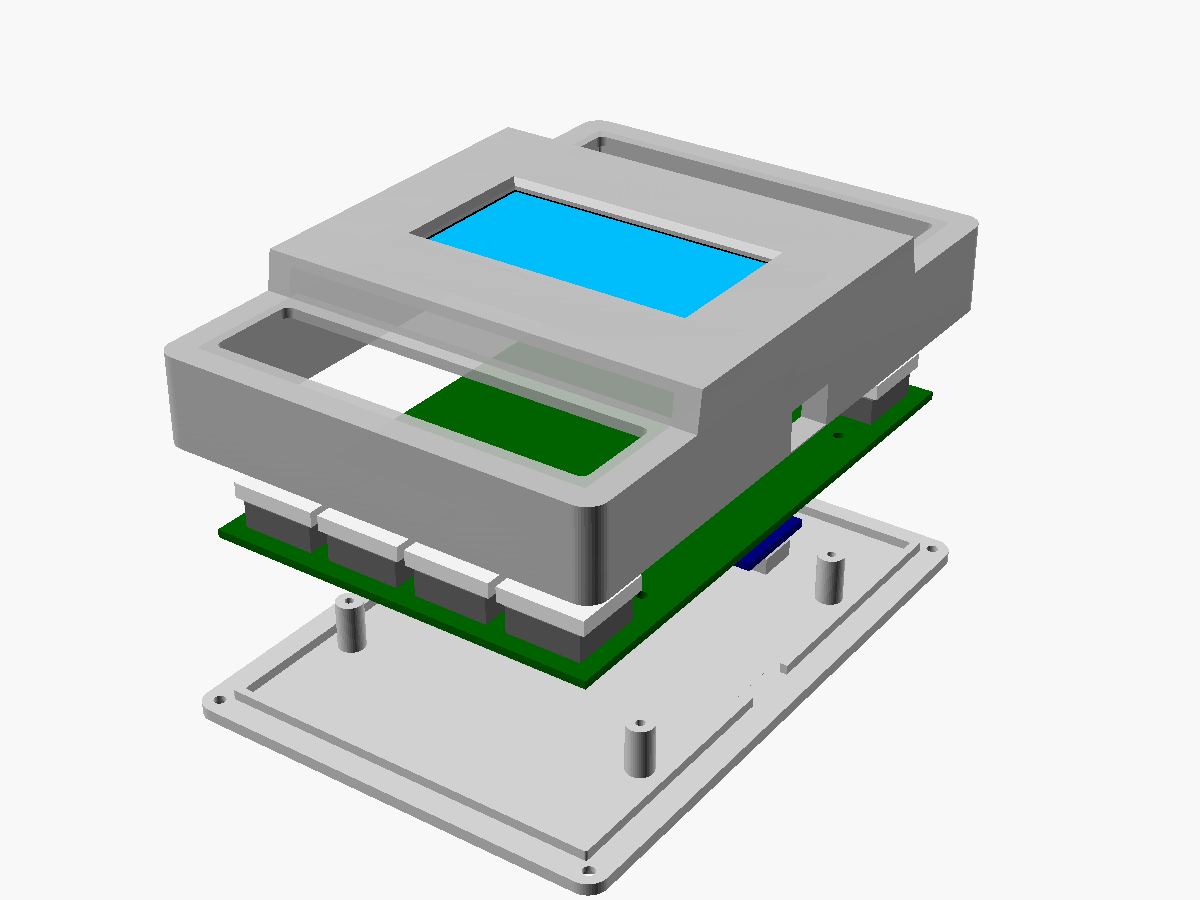
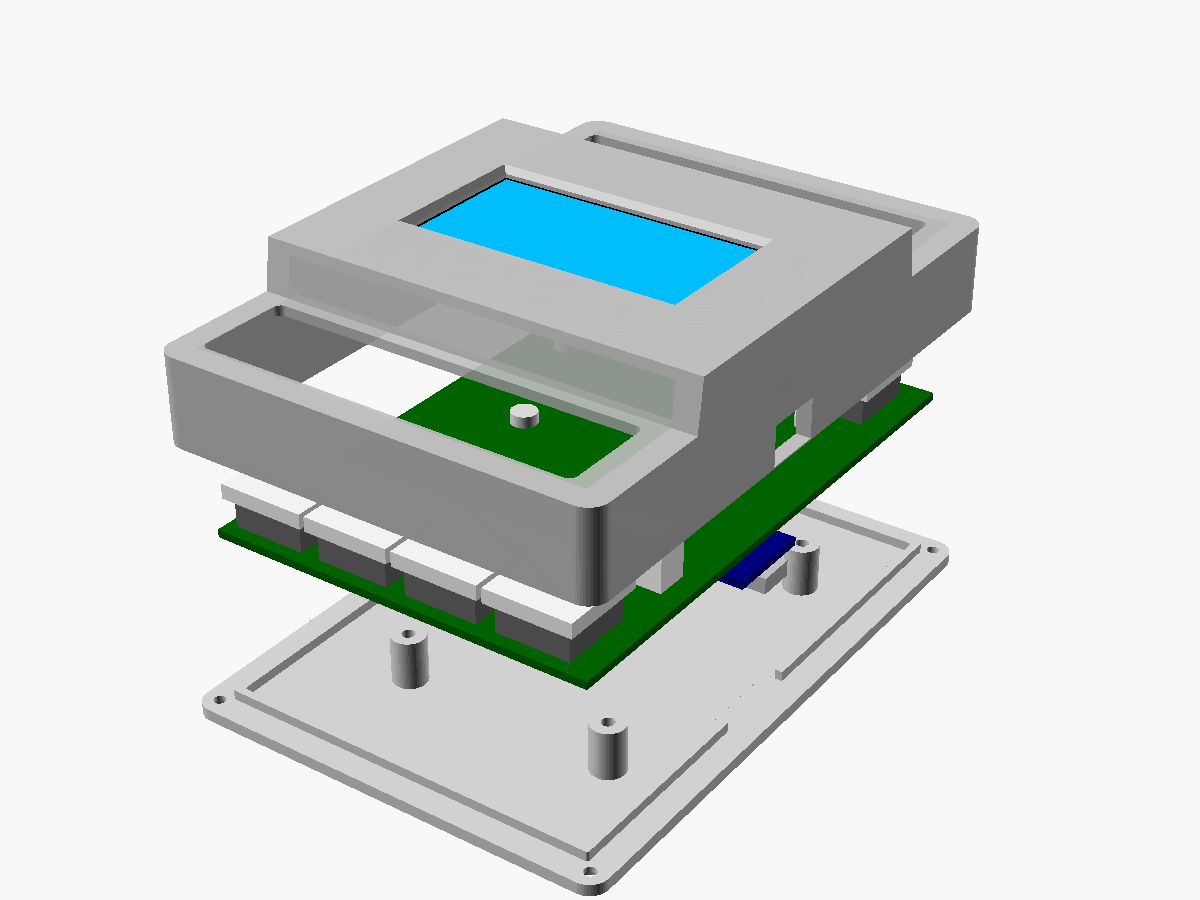
Skrypt flash.ps1 i obudowa dopasowana do zapisanego PCB
- firmware/flash.ps1: znajduje/instaluje PlatformIO, pilnuje, by aplikacja nie trzymała
  portu, kompiluje i wgrywa (-Board 3v3, -Port, -BuildOnly, -CloseApp),
- obudowa z geometrii tap32.kicad_pcb: obrys 79,5 × 117 mm, 5 słupków M3 (H1–H5),
  otwory klawiszy wyśrodkowane na rzędach, kieszeń na Pro Micro wystające poza PCB,
  USB na osi gniazda, pokład ekranu podniesiony nad wtyk JST XH w J1 (j1_clear).

diff --git a/README.md b/README.md
@@ -89,9 +89,17 @@ ATmega32U4 ma **2,5 KB RAM i 28 KB flash** (z bootloaderem Caterina). Zużycie (
 
 ### Wgrywanie
 
-```bash
-pio run -e promicro -t upload
+Skrypt `firmware\flash.ps1` znajduje PlatformIO (PATH, `%USERPROFILE%\.platformio`, a w razie
+potrzeby instaluje go przez pip), sprawdza, czy aplikacja nie trzyma portu, kompiluje i wgrywa:
+
+```powershell
+cd firmware
+.\flash.ps1
 ```
+
+Opcje: `-Board 3v3` (Pro Micro 3,3 V/8 MHz), `-Port COM7` (konkretny port), `-BuildOnly`
+(tylko kompilacja, wynik w `.pio\build\promicro\firmware.hex`), `-CloseApp` (zamyka działającą
+aplikację ChocPilot). Bez skryptu: `pio run -e promicro -t upload`.
 
 Najpierw zamknij aplikację ChocPilot (trzyma port COM). PlatformIO otwiera port z prędkością
 1200 bps („1200 bps touch”), płytka restartuje się do bootloadera **Caterina** (osobny port COM
@@ -188,10 +196,13 @@ automatycznie z pól modelu.
 
 ## Obudowa (OpenSCAD)
 
-`case/chocpilot_case.scad` – obudowa ok. 90 × 128 mm: rząd K1–K4, pod nim ekran 2,42" poziomo
-na podwyższonym, fazowanym pokładzie, pod nim rząd K5–K8. Moduł OLED przykręca się od spodu do
-słupków w pokładzie (wkręty M2,5) i łączy przewodem ze złączem J1 na płytce; płytka leży na
-słupkach dna (M2), Pro Micro od spodu, USB wychodzi prawą ścianką.
+`case/chocpilot_case.scad` – obudowa 90,3 × 127,8 mm dopasowana do płytki z KiCad
+(`esp_macropad/pcb/tap32/tap32.kicad_pcb`: obrys 79,5 × 117 mm, 5 otworów M3, Choc V1 w rastrze
+19,05 mm, Pro Micro poziomo przy prawej krawędzi, J1 = JST XH 4-pin pionowe). Rząd K1–K4, pod
+nim ekran 2,42" poziomo na podwyższonym, fazowanym pokładzie, pod nim rząd K5–K8. Moduł OLED
+przykręca się od spodu do słupków w pokładzie (wkręty M2,5) i łączy przewodem z J1; płytka leży
+na 5 słupkach dna (M3), Pro Micro od spodu (wystaje 1,9 mm poza PCB – kieszeń w prawej
+ściance), USB wychodzi prawą ścianką.
 
 ```bash
 openscad -D part=\"shell\" -o chocpilot_shell.stl case/chocpilot_case.scad
@@ -202,13 +213,14 @@ openscad -D part=\"bottom\" -o chocpilot_bottom.stl case/chocpilot_case.scad
 ```
 
 Części: `shell`, `bottom`; podgląd: `assembly`, `exploded`. Wysokość: 20 mm przy klawiszach,
-27,6 mm przy ekranie (z 8 mm na złącze i przewody pod modułem – `oled_back_clear`).
+30 mm przy ekranie – pod pokładem musi zmieścić się wtyk XH w J1 z przewodami (`j1_clear` = 14 mm
+nad PCB). Z niższym złączem (np. przewody wlutowane) zmniejsz `j1_clear`, a pokład się obniży.
 
-**Przed drukiem sprawdź parametry z sekcji „ZAŁOŻENIA”** – obudowa powstała z rozmieszczenia
-klawiszy (kbplacer), bo plik `.kicad_pcb` nie był zapisany: obrys płytki (klawisze + 1,5 mm),
-4 otwory M2 w szczelinie ekranu, Pro Micro poziomo przy prawej krawędzi w środku szczeliny
-(USB w prawo) oraz wymiary modułu OLED (płytka 70 × 43 mm, otwory 65 × 38 mm, szkło
-60,5 × 37 mm) – zmierz swój moduł.
+**Przed drukiem zmierz moduł OLED** – jego wymiary to nadal założenia (płytka 70 × 43 mm,
+otwory Ø3 w rozstawie 65 × 38 mm, szkło 60,5 × 37 × 2 mm, obszar aktywny 55,01 × 27,49 mm,
+wszystko wyśrodkowane). Słupki mieszczą się tylko ok. 0,75 mm od szkła. Zakładany jest też
+montaż Pro Micro od spodu płytki (elementy w dół) – przy montażu od góry trzeba zmienić
+`standoff_h`, wycięcie USB i miejsce pod modułem.
 
 ## Rozwiązywanie problemów
 
